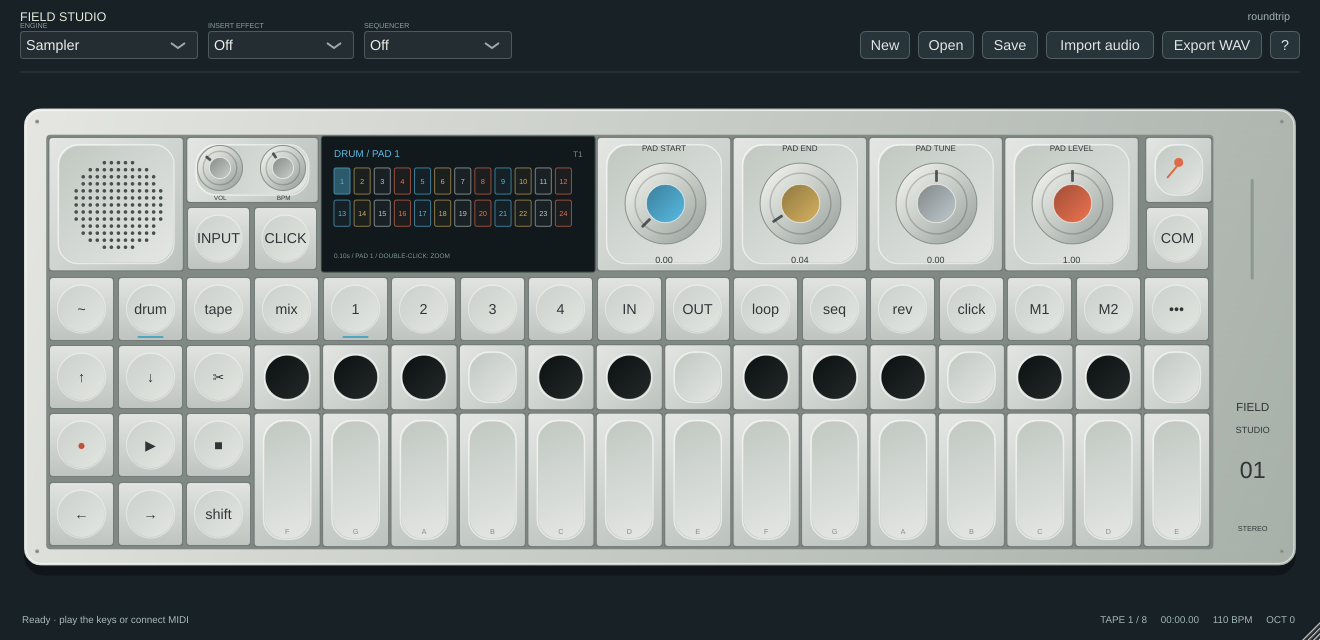
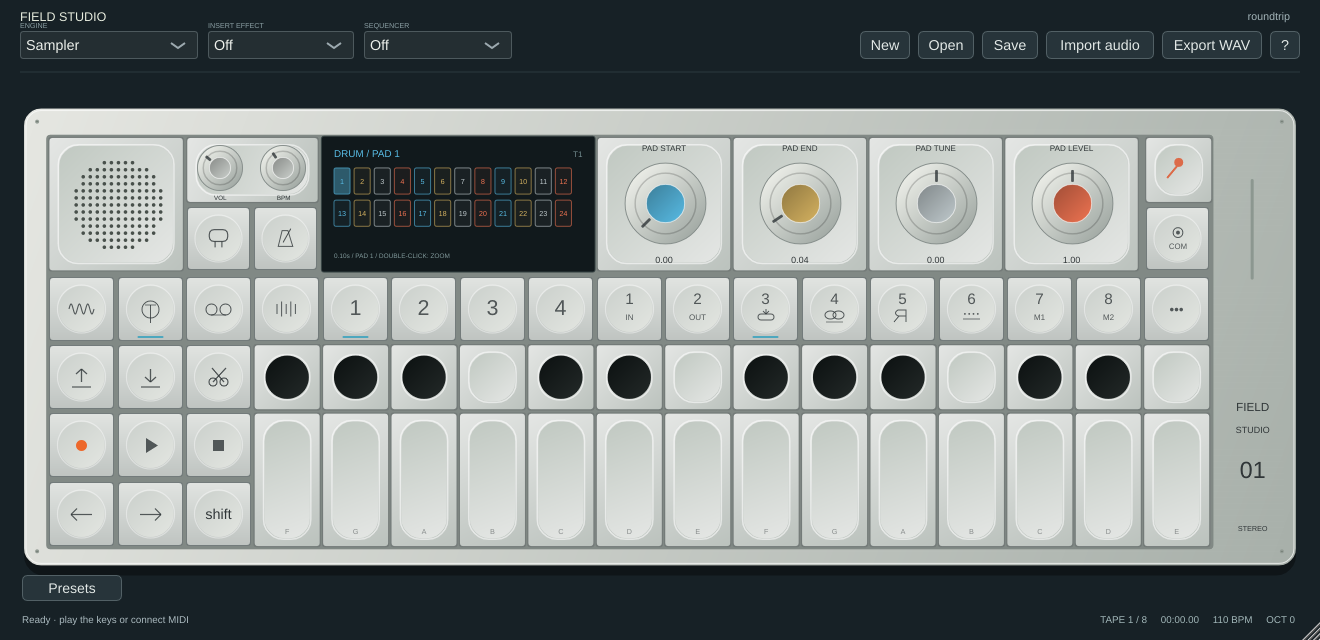
Restore permanent panel key legends and recreate Delay screen and controls

diff --git a/Source/PluginEditor.cpp b/Source/PluginEditor.cpp
@@ -2,6 +2,7 @@
 #include "DimensionScreen.h"
 #include "DSynthScreen.h"
 #include "CwoScreen.h"
+#include "DelayScreen.h"
 #include <cmath>
 #include <algorithm>
 
@@ -80,11 +81,12 @@ FieldEditor::FieldEditor(FieldProcessor& p):AudioProcessorEditor(p),processor(p)
     newButton.setTooltip("New empty tape bank");openButton.setTooltip("Open a Field Studio project");saveButton.setTooltip("Save all eight tapes, sample, effects and settings");importButton.setTooltip("Import WAV, AIFF, FLAC or Ogg into Sampler");exportButton.setTooltip("Export current tape mix as 24-bit stereo WAV");
     const juce::StringArray fn{"~","drum","tape","mix","1","2","3","4","IN","OUT","loop","seq","rev","click","M1","M2",juce::String::fromUTF8("•••")};
     const juce::StringArray tips{"Synthesizer","Drum machine","Four-track tape recorder",juce::String::fromUTF8("Mixer · Shift changes coloured knobs to pan"),juce::String::fromUTF8("T1 · engine or track 1"),juce::String::fromUTF8("T2 · envelope / mixer EQ / tape track 2"),juce::String::fromUTF8("T3 · insert / master FX / tape track 3"),juce::String::fromUTF8("T4 · modulation / master dynamics / tape track 4"),"Set loop selection start at playhead","Set loop selection end at playhead","Toggle tape loop","Open sequencer grid","Reverse tape speed","Toggle metronome",juce::String::fromUTF8("Recall mixer memo 1 · Shift: store · Sequencer: previous page"),juce::String::fromUTF8("Recall mixer memo 2 · Shift: store · Sequencer: next page"),"Tape style, host sync and editing menu"};
-    for(int i=0;i<17;++i){auto* b=functionButtons.add(new juce::TextButton(fn[i]));b->getProperties().set("hardware",true);b->setColour(juce::TextButton::textColourOffId,ink);b->setColour(juce::TextButton::textColourOnId,ink);b->setWantsKeyboardFocus(false);b->setTooltip(tips[i]);b->onClick=[this,i]{functionAction(i);grabKeyboardFocus();};addAndMakeVisible(b);}
+    for(int i=0;i<17;++i){auto* b=functionButtons.add(new juce::TextButton(fn[i]));b->getProperties().set("hardware",true);b->getProperties().set("panelKey",i);b->setColour(juce::TextButton::textColourOffId,ink);b->setColour(juce::TextButton::textColourOnId,ink);b->setWantsKeyboardFocus(false);b->setTooltip(tips[i]);b->onClick=[this,i]{functionAction(i);grabKeyboardFocus();};addAndMakeVisible(b);}
     const juce::StringArray tr{juce::String::fromUTF8("↑"),juce::String::fromUTF8("↓"),juce::String::fromUTF8("✂"),juce::String::fromUTF8("●"),juce::String::fromUTF8("▶"),juce::String::fromUTF8("■"),juce::String::fromUTF8("←"),juce::String::fromUTF8("→")};
     const juce::StringArray tt{juce::String::fromUTF8("Lift selected tape segment · Shift: undo"),juce::String::fromUTF8("Drop lifted audio at playhead · Shift: redo"),juce::String::fromUTF8("Split at playhead · Shift: clear track (undoable)"),juce::String::fromUTF8("Start / stop tape recording · Shift: capture input sample"),juce::String::fromUTF8("Play / pause · Space"),"Stop recording and playback",juce::String::fromUTF8("Seek back one second · Shift: rewind"),juce::String::fromUTF8("Seek forward one second · Shift: selection end")};
-    for(int i=0;i<8;++i){auto* b=transportButtons.add(new juce::TextButton(tr[i]));b->getProperties().set("hardware",true);b->setColour(juce::TextButton::textColourOffId,i==3?juce::Colour(0xffbf513b):ink);b->setWantsKeyboardFocus(false);b->setTooltip(tt[i]);b->onClick=[this,i]{transportAction(i);grabKeyboardFocus();};addAndMakeVisible(b);}
+    for(int i=0;i<8;++i){auto* b=transportButtons.add(new juce::TextButton(tr[i]));b->getProperties().set("hardware",true);b->getProperties().set("transportKey",i);b->setColour(juce::TextButton::textColourOffId,i==3?juce::Colour(0xffbf513b):ink);b->setWantsKeyboardFocus(false);b->setTooltip(tt[i]);b->onClick=[this,i]{transportAction(i);grabKeyboardFocus();};addAndMakeVisible(b);}
     for(auto* b:{&inputButton,&tempoButton,&comButton,&shiftButton}){b->getProperties().set("hardware",true);b->setColour(juce::TextButton::textColourOffId,ink);b->setWantsKeyboardFocus(false);addAndMakeVisible(b);}
+    inputButton.getProperties().set("panelUtility",0);tempoButton.getProperties().set("panelUtility",1);comButton.getProperties().set("panelUtility",2);
     inputButton.setTooltip(juce::String::fromUTF8("Monitor live audio input · required for Amp / Vocoder"));inputButton.onClick=[this]{processor.inputMonitor=!processor.inputMonitor;status=processor.inputMonitor?"Input monitoring on":"Input monitoring off";grabKeyboardFocus();};
     tempoButton.setTooltip("Metronome on / off");tempoButton.onClick=[this]{processor.metronome=!processor.metronome;grabKeyboardFocus();};
     comButton.setTooltip("Connections, host sync, tape styles and panic");comButton.onClick=[this]{showMenu();};shiftButton.setTooltip(juce::String::fromUTF8("Latch Shift · alternate tape edits and mixer pan"));shiftButton.onClick=[this]{shiftLatched=!shiftLatched;setShift(shiftLatched);grabKeyboardFocus();};
@@ -251,6 +253,7 @@ void FieldEditor::drawScreen(juce::Graphics& g){
     juce::Rectangle<float> r(304,38,271,134);g.setColour(juce::Colour(0xff3d4949));g.fillRoundedRectangle(r.expanded(1),3);g.setColour(screenBlack);g.fillRoundedRectangle(r,2);g.saveState();g.reduceClipRegion(r.toNearestInt());
     auto content=r.reduced(12,9);if(presetBrowser){drawPresetBrowser(g,content);g.restoreState();return;}
     const bool masterCwo=mode==3&&page==2;const bool patchCwo=(mode==0||mode==1)&&page==2;
+    if((masterCwo||patchCwo)&&(int)processor.value(masterCwo?"masterEffect":"effect")==1){std::array<float,4> values{};for(int i=0;i<4;++i)values[(size_t)i]=processor.value((masterCwo?"masterFx":"fx")+juce::String(i+1));field::drawDelayScreen(g,r,values,tick/30.f);g.restoreState();return;}
     if((masterCwo||patchCwo)&&(int)processor.value(masterCwo?"masterEffect":"effect")==7){std::array<float,4> values{};for(int i=0;i<4;++i)values[(size_t)i]=processor.value((masterCwo?"masterFx":"fx")+juce::String(i+1));field::drawCwoScreen(g,r,values,tick/30.f);g.restoreState();return;}
     if(mode==2){drawTape(g,content);g.restoreState();return;}if(mode==3){drawMixer(g,content);g.restoreState();return;}if(mode==4){drawSequence(g,content);g.restoreState();return;}
     const int engine=(int)processor.value("engine");
@@ -345,6 +348,7 @@ void FieldEditor::drawEffect(juce::Graphics& g,juce::Rectangle<float> area,bool 
     const int effect=juce::jlimit(0,10,(int)processor.value(master?"masterEffect":"effect"));
     std::array<float,4> v{};for(int i=0;i<4;++i)v[(size_t)i]=juce::jlimit(0.f,1.f,processor.value((master?"masterFx":"fx")+juce::String(i+1)));
     const float mix=processor.value(master?"masterMix":"effectMix");
+    if(effect==1){field::drawDelayScreen(g,area,v,tick/30.f);return;}
     if(effect==7){field::drawCwoScreen(g,area,v,tick/30.f);return;}
     const auto body=area.withTrimmedBottom(16).reduced(3,3);const float x=v[0],y=v[1],z=v[2],w=v[3];
     if(effect==0){g.setColour(colours[2].withAlpha(.25f));g.drawLine(body.getX()+8,body.getCentreY(),body.getRight()-8,body.getCentreY(),1);text(g,"BYPASS",body.withHeight(body.getHeight()-8),17,colours[2]);text(g,"CHOOSE AN EFFECT ABOVE",area.withY(area.getBottom()-12).withHeight(12),8,colours[2]);return;}
@@ -712,7 +716,7 @@ void FieldEditor::timerCallback(){
     for(int i=0;i<4;++i)functionButtons[i]->setToggleState(mode==i,juce::dontSendNotification);for(int i=4;i<8;++i)functionButtons[i]->setToggleState(mode==2?selectedTrack==i-4:page==i-4,juce::dontSendNotification);
     functionButtons[10]->setToggleState(processor.value("loop")>.5f,juce::dontSendNotification);functionButtons[11]->setToggleState(mode==4,juce::dontSendNotification);functionButtons[13]->setToggleState(processor.metronome,juce::dontSendNotification);inputButton.setToggleState(processor.inputMonitor,juce::dontSendNotification);tempoButton.setToggleState(processor.metronome,juce::dontSendNotification);transportButtons[3]->setToggleState(recording,juce::dontSendNotification);transportButtons[4]->setToggleState(playing,juce::dontSendNotification);
     if(mode<2){for(int slot=0;slot<8;++slot){functionButtons[8+slot]->setButtonText(juce::String(slot+1));functionButtons[8+slot]->setToggleState(processor.getCurrentProgram()%8==slot,juce::dontSendNotification);functionButtons[8+slot]->setTooltip("Sound "+juce::String(slot+1)+": "+processor.soundSlotName(slot)+" / Shift: browse / Hold 2 seconds: snapshot");}}
-    else {const juce::StringArray labels{"IN","OUT","loop","seq","rev","click","M1","M2"};for(int slot=0;slot<8;++slot)functionButtons[8+slot]->setButtonText(labels[slot]);}
+    else {const juce::StringArray labels{"IN","OUT","loop","seq","rev","click","M1","M2"};const juce::StringArray tips{"Set loop start","Set loop end","Toggle loop","Open sequencer","Reverse tape speed","Toggle metronome","Mixer memo 1 / Shift: store / Sequencer: previous page","Mixer memo 2 / Shift: store / Sequencer: next page"};for(int slot=0;slot<8;++slot){functionButtons[8+slot]->setButtonText(labels[slot]);functionButtons[8+slot]->setTooltip(juce::String(slot+1)+" / "+labels[slot]+": "+tips[slot]);}}
     transportButtons[3]->setButtonText(countInRemaining>0?"ARM":processor.sampling?"SAMPLE":juce::String::fromUTF8("●"));
     updateControlAvailability();
     repaint();

diff --git a/Source/PanelLegends.cpp b/Source/PanelLegends.cpp
@@ -1,0 +1,43 @@
+#include "PluginEditor.h"
+#include <cmath>
+
+void FieldLookAndFeel::drawButtonText(juce::Graphics& g,juce::TextButton& button,bool over,bool down){
+    if(!button.getProperties().contains("panelKey")&&!button.getProperties().contains("transportKey")&&!button.getProperties().contains("panelUtility")){juce::LookAndFeel_V4::drawButtonText(g,button,over,down);return;}
+    juce::Graphics::ScopedSaveState save(g);g.addTransform(juce::AffineTransform::scale(button.getWidth()/67.f,button.getHeight()/66.f));
+    const int key=(int)button.getProperties()["panelKey"];const auto colour=button.findColour(juce::TextButton::textColourOffId).withMultipliedAlpha(button.isEnabled()?.8f:.35f);g.setColour(colour);
+    auto text=[&](const juce::String& s,juce::Rectangle<float> r,float size){g.setColour(colour);g.setFont(juce::Font(juce::FontOptions(size)));g.drawText(s,r,juce::Justification::centred,false);};
+    if(button.getProperties().contains("transportKey")){
+        const int action=(int)button.getProperties()["transportKey"];
+        // Recording/count-in states retain their dynamic text.
+        if(action==3&&(button.getButtonText()=="ARM"||button.getButtonText()=="SAMPLE")){text(button.getButtonText(),{12,22,43,22},10);return;}
+        if(action==0||action==1){float top=action==0?25.f:38.f,bottom=action==0?38.f:25.f;g.drawLine(33.5f,top,33.5f,bottom,1.3f);g.drawLine(28,action==0?30.f:33.f,33.5f,top,1.3f);g.drawLine(39,action==0?30.f:33.f,33.5f,top,1.3f);g.drawLine(24,43,43,43,1.2f);}
+        else if(action==2){g.drawEllipse(24,34,8,8,1.2f);g.drawEllipse(35,34,8,8,1.2f);g.drawLine(28,38,41,24,1.3f);g.drawLine(39,38,27,24,1.3f);}
+        else if(action==3){g.setColour(juce::Colour(0xffed682b));g.fillEllipse(28,28,11,11);}
+        else if(action==4){juce::Path play;play.addTriangle(29,26,29,41,41,33.5f);g.fillPath(play);}
+        else if(action==5)g.fillRect(28.f,28.f,11.f,11.f);
+        else{const float direction=action==6?-1.f:1.f;g.drawLine(23,33.5f,44,33.5f,1.2f);g.drawLine(33.5f+10.5f*direction,33.5f,33.5f+4.5f*direction,27.5f,1.2f);g.drawLine(33.5f+10.5f*direction,33.5f,33.5f+4.5f*direction,39.5f,1.2f);}
+        return;
+    }
+    if(button.getProperties().contains("panelUtility")){
+        const int utility=(int)button.getProperties()["panelUtility"];
+        if(utility==0){g.drawRoundedRectangle({24,24,19,12},5,1.2f);g.drawLine(30,36,30,42,1.2f);g.drawLine(37,36,37,42,1.2f);}
+        else if(utility==1){juce::Path metronome;metronome.startNewSubPath(26,41);metronome.lineTo(30,25);metronome.lineTo(36,25);metronome.lineTo(41,41);metronome.closeSubPath();g.strokePath(metronome,juce::PathStrokeType(1));g.drawLine(31,37,39,23,1.1f);}
+        else{g.drawEllipse(29,22,10,10,1);g.fillEllipse(32,25,4,4);text("COM",{20,34,28,13},9);}
+        return;
+    }
+    if(key>=8&&key<16){
+        const int slot=key-8;text(juce::String(slot+1),{16,13,35,20},17);
+        if(slot==0||slot==1||slot>=6){const juce::StringArray legends{"IN","OUT","","","","","M1","M2"};text(legends[slot],{17,33,33,16},9);}
+        else if(slot==2){g.drawRoundedRectangle({26,38,16,6},3,1);g.drawLine(34,33,34,38,1);g.drawLine(31,35,34,38,1);g.drawLine(37,35,34,38,1);}
+        else if(slot==3){g.drawEllipse(24,35,11,8,1);g.drawEllipse(32,35,11,8,1);g.drawLine(25,46,42,46,.7f);}
+        else if(slot==4){juce::Path reverse;reverse.startNewSubPath(37,46);reverse.lineTo(37,34);reverse.lineTo(29,34);reverse.quadraticTo(24,37,29,40);reverse.lineTo(37,40);reverse.startNewSubPath(30,40);reverse.lineTo(25,46);g.strokePath(reverse,juce::PathStrokeType(1));}
+        else{for(int dot=0;dot<4;++dot)g.fillEllipse(26+dot*4.3f,37,1.8f,1.8f);g.drawLine(25,43,42,43,.8f);}
+        return;
+    }
+    if(key>=4&&key<8){text(juce::String(key-3),{14,17,39,30},24);return;}
+    if(key==0){juce::Path wave;for(int i=0;i<=64;++i){float x=21+i*25.f/64,y=33-std::sin(i/64.f*juce::MathConstants<float>::twoPi*3)*5;if(i==0)wave.startNewSubPath(x,y);else wave.lineTo(x,y);}g.strokePath(wave,juce::PathStrokeType(1.1f));}
+    else if(key==1){g.drawEllipse(25,25,17,17,1);g.drawLine(33.5f,29,33.5f,47,1);g.drawLine(28,29,39,29,.8f);}
+    else if(key==2){g.drawEllipse(21,28,11,11,1);g.drawEllipse(35,28,11,11,1);g.drawLine(26,39,41,39,.8f);}
+    else if(key==3){for(int ch=0;ch<5;++ch){float x=24+ch*4.6f,height=ch%2?15.f:10.f;g.drawLine(x,33-height*.5f,x,33+height*.5f,1);}}
+    else{text(juce::String::fromUTF8("•••"),{15,20,37,26},15);}
+}

diff --git a/tests/plugin_tests.cpp b/tests/plugin_tests.cpp
@@ -223,6 +223,7 @@ int main(int argc,char** argv){
     p.setValue("effect",7);p.setValue("effectMix",.5f);p.setValue("masterEffect",0);p.setValue("fx2",1);p.setValue("fx3",1);const auto insertTail=p.getTailLengthSeconds();require(insertTail>60,"Host CWO tail estimate would truncate high-feedback echoes");p.setValue("masterEffect",7);p.setValue("masterMix",.5f);p.setValue("masterFx2",1);p.setValue("masterFx3",1);require(p.getTailLengthSeconds()>insertTail*1.8,"Host tail omitted serial master CWO");p.setValue("masterFx2",.5f);p.setValue("masterFx3",.45f);
     p.drumMode=false;p.setValue("effect",7);p.setValue("masterEffect",7);p.setValue("fx1",.7f);p.setValue("fx2",.12f);p.setValue("fx3",.48f);p.setValue("fx4",.3f);ui->showPageForTesting(0,2);captureNamed("cwo-reference");ui->setShiftForTesting(true);require(ui->macroMidiTargetForTesting(0)=="fx1"&&ui->macroMidiTargetForTesting(3)=="effectMix","CWO fine frequency/mix gestures mapped wrong controls");for(int child=0;child<ui->getNumChildComponents();++child)if(auto* slider=dynamic_cast<juce::Slider*>(ui->getChildComponent(child)))if(slider->getProperties()["midiTarget"].toString()=="fx1")require(slider->getMouseDragSensitivity()==2400,"CWO Shift did not provide fine frequency dragging");ui->setShiftForTesting(false);
     ui->showPageForTesting(3,2);captureNamed("cwo-master");for(int i=1;i<=4;++i)p.setValue("fx"+juce::String(i),0);ui->showPageForTesting(0,2);captureNamed("cwo-minimum");for(int i=1;i<=4;++i)p.setValue("fx"+juce::String(i),1);ui->refreshForTesting();captureNamed("cwo-maximum");
+    p.setValue("effect",1);p.setValue("fx1",.4f);p.setValue("fx2",.48f);p.setValue("fx3",.48f);p.setValue("fx4",.3f);ui->showPageForTesting(0,2);captureNamed("delay-reference");for(int key=1;key<=8;++key){auto* button=dynamic_cast<juce::TextButton*>(ui->findChildWithID("sound-slot-"+juce::String(key)));require(button&&(int)button->getProperties()["panelKey"]==key+7,"Numbered sound key lost its permanent panel legend");}p.setValue("masterEffect",1);ui->showPageForTesting(3,2);captureNamed("delay-master");ui->showPageForTesting(2,0);captureNamed("panel-tape-legends");ui->showPageForTesting(0,0);captureNamed("panel-synth-legends");
     p.setValue("lfoDepth",.65f);p.setValue("lfoTarget",0);
     for(int type=0;type<FieldProcessor::lfoNames.size();++type){p.setValue("lfo",(float)type);for(int shape=0;shape<6;++shape){p.setValue("lfoWaveform",(float)shape);ui->showPageForTesting(0,3);require(editor->createComponentSnapshot(editor->getLocalBounds()).isValid(),"LFO source/shape did not render");if(shape==0)captureNamed("lfo-"+juce::String(type));if(type==3)captureNamed("lfo-wave-"+juce::String(shape));}}
     p.drumMode=false;p.setValue("engine",1);ui->setShiftForTesting(false);ui->showPageForTesting(0,0);require(ui->macroMidiTargetForTesting(0)=="macro1","Synth knob learns wrong parameter");ui->showPageForTesting(3,0);require(ui->macroMidiTargetForTesting(0)=="track1Level","Mixer knob learns wrong parameter");ui->setShiftForTesting(true);require(ui->macroMidiTargetForTesting(0)=="track1Pan","Shifted mixer knob learns wrong parameter");p.drumMode=true;p.setValue("engine",14);ui->setShiftForTesting(false);ui->showPageForTesting(1,0);require(ui->macroMidiTargetForTesting(2)=="dboxEnvelope1","DBox knob learns wrong parameter");ui->setShiftForTesting(true);require(ui->macroMidiTargetForTesting(2)=="dboxEnvelope2","Shifted DBox knob learns wrong parameter");p.setValue("engine",11);ui->setShiftForTesting(false);ui->showPageForTesting(1,0);require(ui->macroMidiTargetForTesting(0)=="padStart","Sampler pad knob learns wrong parameter");p.drumMode=false;p.setValue("engine",1);ui->showPageForTesting(0,0);p.beginMidiLearn("macro1",field::EncoderMode::absolute,true);captureNamed("midi-learn");p.cancelMidiLearn();

diff --git a/Source/Engine.cpp b/Source/Engine.cpp
@@ -1,4 +1,5 @@
 #include "Engine.h"
+#include "DelayControls.h"
 #include <algorithm>
 #include <cmath>
 #include <limits>
@@ -94,7 +95,7 @@ void Engine::prepare(double rate, int /* maxBlock */) {
     delayR.assign(delayL.size(),0);
     delayWrite=0; fxLowL=fxLowR=fxBandL=fxBandR=wetLowL=wetLowR=0;
     phaserL.fill(0); phaserR.fill(0);
-    cwoShifter.prepare(sr);cwoDelay=-1;cwoDelaySmoothing=1-std::exp(-1/(.005*sr));
+    cwoShifter.prepare(sr);cwoDelay=plainDelay=-1;cwoDelaySmoothing=1-std::exp(-1/(.005*sr));
     for (auto& v : voices) {v.active=false;releaseVoiceSample(v);}keyCount=0;
     isRecording=false; isPlaying=false;countInRemaining=0;countInElapsed=0;reverseHeld=false;brakeHeld=false;rollHeld=false;
     seqPhase=0; seqStep=-1;seqPositionPending=-1; seqLastNote=-1;
@@ -590,7 +591,11 @@ std::pair<float,float> Engine::effect(float l,float r) {
     const float tapL=read(delayL,(.04+x*.71)*sr), tapR=read(delayR,(.057+x*.713)*sr);
     fxPhase=wrap(fxPhase+(0.05+y*1.8)/sr);
     switch(params.effect) {
-        case 1: wetL=tapL; wetR=tapR; feedbackL=tapR*(.15f+y*.65f); feedbackR=tapL*(.15f+y*.65f); break;
+        case 1: {
+            const double target=delaySeconds(x,y)*sr;if(plainDelay<0)plainDelay=target;else plainDelay+=(target-plainDelay)*cwoDelaySmoothing;
+            const float echoL=read(delayL,plainDelay),echoR=read(delayR,plainDelay);
+            feedbackL=echoR*z*.94f;feedbackR=echoL*z*.94f;wetL=echoL*w;wetR=echoR*w;break;
+        }
         case 2: { // Short dispersive feedback taps: spring-inspired, not a model of TE's engine.
             wetL=read(delayL,sr*.0311)+read(delayR,sr*.0477)*.7f+read(delayL,sr*.0713)*.5f;
             wetR=read(delayR,sr*.0371)+read(delayL,sr*.0537)*.7f+read(delayR,sr*.0793)*.5f;
@@ -631,9 +636,9 @@ std::pair<float,float> Engine::effect(float l,float r) {
     }
     delayL[delayWrite]=std::tanh(l+feedbackL);delayR[delayWrite]=std::tanh(r+feedbackR);
     delayWrite=(delayWrite+1)%delayL.size();
-    // CWO has dedicated feedback and sideband controls. Other original
-    // software effects retain their wet-tone and stereo-width processing.
-    if(params.effect!=7){
+    // Delay and CWO have dedicated four-control paths. Other software
+    // effects retain their wet-tone and stereo-width processing.
+    if(params.effect!=7&&params.effect!=1){
         const float tone=1-std::exp(-static_cast<float>(tau)*std::min(static_cast<float>(sr*.42),200+z*z*18000)/static_cast<float>(sr));
         wetLowL+=tone*(wetL-wetLowL);wetLowR+=tone*(wetR-wetLowR);
         const float mid=(wetLowL+wetLowR)*.5f,side=(wetLowL-wetLowR)*w;

diff --git a/Source/PluginProcessor.cpp b/Source/PluginProcessor.cpp
@@ -1,5 +1,6 @@
 #include "PluginProcessor.h"
 #include "PluginEditor.h"
+#include "DelayControls.h"
 #include "PresetFormat.h"
 #include "PresetMapping.h"
 #include "PresetParameters.h"
@@ -64,13 +65,14 @@ FieldProcessor::FieldProcessor(juce::File presetDirectory) : AudioProcessor(Buse
 FieldProcessor::~FieldProcessor(){stopTimer();fileJobs.shutdown();for(auto* parameter:rawTargets)parameter->removeListener(this);}
 double FieldProcessor::getTailLengthSeconds() const {
     const double rate=getSampleRate()>0?getSampleRate():44100.;
-    auto cwoTail=[&](int effect,int mix,int time,int feedback){
-        if((int)cached(effect)!=7||cached(mix)<=0)return 0.;
+    auto feedbackTail=[&](int effect,int mix,int range,int time,int feedback){
+        const int kind=(int)cached(effect);if((kind!=7&&kind!=1)||cached(mix)<=0)return 0.;
         const double amount=juce::jlimit(0.,.94,cached(feedback)*.94),delay=cached(time);
         const double repeats=amount>0?std::ceil(std::log(1.e-5)/std::log(amount))+1:1;
-        return std::min(180.,repeats*(33./rate+.8*delay*delay));
+        const double interval=kind==7?33./rate+.8*delay*delay:field::delaySeconds(cached(range),cached(time));
+        return std::min(420.,repeats*interval);
     };
-    return std::max(4.,(double)cached(P_release))+cwoTail(P_effect,P_effectMix,P_fx2,P_fx3)+cwoTail(P_masterEffect,P_masterMix,P_masterFx2,P_masterFx3);
+    return std::max(4.,(double)cached(P_release))+feedbackTail(P_effect,P_effectMix,P_fx1,P_fx2,P_fx3)+feedbackTail(P_masterEffect,P_masterMix,P_masterFx1,P_masterFx2,P_masterFx3);
 }
 void FieldProcessor::parameterValueChanged(int index,float normalized){for(int i=0;i<P_count;++i)if(rawTargets[(size_t)i]->getParameterIndex()==index){const auto version=realtimeValues.version((size_t)i);const float actual=cached(i),received=rawTargets[(size_t)i]->convertFrom0to1(normalized);const float tolerance=8*std::numeric_limits<float>::epsilon()*std::max(1.f,std::abs(actual));if(std::abs(actual-received)>tolerance){realtimeValues.fromAudio((size_t)i,actual);return;}if(activeMirror.owner==this&&activeMirror.key==i&&std::abs(activeMirror.value-received)<=tolerance)return;realtimeValues.fromControlIfUnchanged((size_t)i,version,actual);return;}}
 juce::ValueTree FieldProcessor::copyParameterState(){auto copy=parameters.copyState();for(auto item:copy)if(item.hasProperty("id")){const auto id=item["id"].toString();if(parameters.getParameter(id))item.setProperty("value",value(id),nullptr);}return copy;}

diff --git a/tests/engine_tests.cpp b/tests/engine_tests.cpp
@@ -51,6 +51,11 @@ int main(){
         auto extreme=processCwo(1,1,1,false);check(energy(extreme)>0,"CWO maximum controls produce audio");
     }
     {
+        auto delayImpulse=[&](float range,float speed,float feedback,float level){auto fx=std::make_unique<Engine>();fx->prepare(8000,64);Parameters p;p.monitorInput=true;p.volume=1;p.effect=1;p.effectMix=1;p.effectMacro[0]=range;p.effectMacro[1]=speed;p.effectMacro[2]=feedback;p.effectMacro[3]=level;fx->setParameters(p);fx->setOutputGainImmediately(1);std::vector<float> input(24000,0),left(24000),right(24000);input[0]=.1f;const auto allocations=watchedAllocations.load(),frees=watchedDeallocations.load();watchAllocations=true;fx->process(left.data(),right.data(),input.data(),input.data(),24000);watchAllocations=false;check(watchedAllocations.load()==allocations&&watchedDeallocations.load()==frees,"Delay processing neither allocates nor frees");for(float sample:left)check(std::isfinite(sample)&&std::abs(sample)<=1,"Delay maximum feedback remains bounded");return left;};
+        auto normal=delayImpulse(.4f,.5f,0,1),fast=delayImpulse(.4f,1,0,1),wide=delayImpulse(.6f,.5f,0,1),quiet=delayImpulse(.4f,.5f,0,0),echo=delayImpulse(.4f,.5f,.8f,1);
+        auto peak=[](const auto& signal){return (int)std::distance(signal.begin(),std::max_element(signal.begin(),signal.end()));};check(peak(normal)==2000&&peak(fast)==1000&&peak(wide)==4000,"Delay range and speed independently set echo timing");check(energy(quiet)==0,"Delay level zero silences wet output");double dryTail=0,echoTail=0;for(size_t i=3000;i<normal.size();++i){dryTail+=normal[i]*normal[i];echoTail+=echo[i]*echo[i];}check(dryTail==0&&echoTail>.001,"Delay feedback controls repeats independently of speed");auto maximum=delayImpulse(1,0,1,1);check(energy(maximum)>0,"Delay extreme controls produce audio");
+    }
+    {
         auto eOwner=std::make_unique<Engine>();auto& e=*eOwner;e.prepare(48000,512);Parameters p;p.engine=1;p.macro[1]=0;p.attack=.001f;p.decay=.01f;p.sustain=1;p.release=.025f;p.volume=1;e.setParameters(p);e.noteOn(69,1);render(e,l,r,48000);
         check(energy(l)>.001f,"FM sine carrier produces audio");
         int crossings=0;for(size_t i=4801;i<l.size();++i)if(l[i-1]<=0&&l[i]>0)++crossings;

diff --git a/Source/DelayScreen.cpp b/Source/DelayScreen.cpp
@@ -1,0 +1,21 @@
+#include "DelayScreen.h"
+#include "DelayControls.h"
+namespace field {
+void drawDelayScreen(juce::Graphics& g,juce::Rectangle<float> bounds,const std::array<float,4>& value,float phase){
+    juce::Graphics::ScopedSaveState save(g);g.reduceClipRegion(bounds.toNearestInt());g.addTransform(juce::AffineTransform::scale(bounds.getWidth()/604.f,bounds.getHeight()/292.f).translated(bounds.getX(),bounds.getY()));g.fillAll(juce::Colours::black);
+    const juce::Colour blue{0xff416599},ochre{0xffa78032},grey{0xff7c8c93},white{0xffb2b7b6},red{0xffff0600};
+    const float range=juce::jlimit(0.f,1.f,value[0]),speed=juce::jlimit(0.f,1.f,value[1]),feedback=juce::jlimit(0.f,1.f,value[2]),level=juce::jlimit(0.f,1.f,value[3]);
+    auto text=[&](const juce::String& s,juce::Rectangle<float> area,float size,juce::Colour c){g.setColour(c);g.setFont(juce::Font(juce::FontOptions(size)));g.drawText(s,area,juce::Justification::centredLeft,true);};
+    text("RANGE",{38,23,130,23},18,blue);const float ms=delayRangeMs(range);text(juce::String(ms,ms==62.5f?1:0)+" MS",{38,42,130,23},18,blue);
+    text("SPEED",{38,155,130,23},18,ochre);text(juce::String((int)std::round(speed*99)),{28,175,132,67},61,white);
+    text("FEEDBACK",{471,23,126,23},18,grey);text(juce::String((int)std::round(feedback*99)),{489,45,110,63},60,white);
+    text("LEVEL",{508,155,90,23},18,red);for(int bar=0;bar<13;++bar){g.setColour(bar<(int)std::round(level*13)?red:white.withAlpha(.8f));g.drawLine(533,258-bar*7.f,550,258-bar*7.f,2);}
+    g.setColour(juce::Colour(0xff0e1d28));g.fillRoundedRectangle({185,22,250,248},6);
+    {juce::Graphics::ScopedSaveState clip(g);g.reduceClipRegion(juce::Rectangle<int>(185,22,250,248));
+        g.setColour(juce::Colours::black);g.drawEllipse(189,27,241,241,2);
+        const float movement=std::sin(phase*(.15f+speed*.6f))*5.f;g.setColour(blue);g.drawEllipse(227+movement,61,194,196,2.3f);
+        g.setColour(juce::Colours::black);g.drawEllipse(268,97,158,158,2);g.drawEllipse(306,135,83,83,2);g.drawEllipse(331,160,33,33,2);
+        g.setColour(red);g.fillEllipse(341,170,13,13);
+    }
+}
+}

diff --git a/Source/Engine.h b/Source/Engine.h
@@ -296,7 +296,7 @@ private:
     float fxLowL = 0, fxLowR = 0, fxBandL = 0, fxBandR = 0, wetLowL=0, wetLowR=0;
     std::array<float, 8> phaserL{}, phaserR{};
     CwoShifter cwoShifter;
-    double cwoDelay=-1,cwoDelaySmoothing=0;
+    double cwoDelay=-1,cwoDelaySmoothing=0,plainDelay=-1;
     std::array<float,20> modulationRoutes{};
     std::array<float,4> midiControllers{};
     float previousOutputEnvelope = 0;

diff --git a/Source/PluginEditor.h b/Source/PluginEditor.h
@@ -5,6 +5,7 @@
 class FieldLookAndFeel final : public juce::LookAndFeel_V4 {
 public:
     FieldLookAndFeel();
+    void drawButtonText(juce::Graphics&,juce::TextButton&,bool,bool) override;
     void drawRotarySlider(juce::Graphics&, int,int,int,int,float,float,float,juce::Slider&) override;
     void drawButtonBackground(juce::Graphics&,juce::Button&,const juce::Colour&,bool,bool) override;
 };

diff --git a/Source/DelayControls.h b/Source/DelayControls.h
@@ -1,0 +1,7 @@
+#pragma once
+#include <algorithm>
+#include <cmath>
+namespace field {
+inline float delayRangeMs(float value){constexpr float ranges[]{62.5f,125.f,250.f,500.f,750.f,1000.f};return ranges[std::clamp((int)(std::clamp(value,0.f,1.f)*5.999f),0,5)];}
+inline double delaySeconds(float range,float speed){return delayRangeMs(range)*.001*std::exp2((.5-std::clamp(speed,0.f,1.f))*2);}
+}

diff --git a/Source/DelayScreen.h b/Source/DelayScreen.h
@@ -1,0 +1,4 @@
+#pragma once
+#include <juce_gui_basics/juce_gui_basics.h>
+#include <array>
+namespace field {void drawDelayScreen(juce::Graphics&,juce::Rectangle<float>,const std::array<float,4>&,float phase);}

diff --git a/docs/DELAY_AND_PANEL.md b/docs/DELAY_AND_PANEL.md
@@ -1,0 +1,26 @@
+# Panel legends and Delay
+
+The supplied hardware photograph is the reference for the printed function-row legends. All eight sound keys now retain a number **and** a secondary marking: IN, OUT, loop arrow, sequencer/infinity symbol, reversed R, click/dots, M1 and M2. These are vector drawings, so glyphs do not depend on Unicode font coverage. Synth, drum, tape and mixer mode keys also use their corresponding drawn symbols; transport and input/click/COM controls have dedicated vector legends.
+
+The artwork is permanent while actions remain contextual: in Synth/Drum, keys 1–8 recall/browse/save sound slots; in Tape/Mixer/Sequencer, the secondary functions continue to apply. Existing click, Shift, hold-to-save and MIDI behaviour is retained. Tooltips describe the current mode. Count-in and sample-capture transport buttons retain their dynamic ARM/SAMPLE text.
+
+Delay now follows the supplied LCD image: range at top left, speed below it, feedback at top right, a red level meter, and overlapping circles in a dark blue square. Insert and master Delay use the full screen. The animated circles are a control illustration, not measured audio output.
+
+![Native Delay LCD and permanent panel legends](screenshots/delay-reference.png)
+
+## Software controls
+
+| Encoder | Behaviour |
+|---|---|
+| Blue / Range | Chooses a base range from 62.5, 125, 250, 500, 750 or 1000 ms. |
+| Ochre / Speed | Changes delay time relative to that range: `range × 2^((0.5 − speed) × 2)`. Faster settings shorten repeats; midpoint gives the base range. |
+| Grey / Feedback | Sets cross-channel echo-loop feedback, up to 0.94. |
+| Orange / Level | Scales wet echo output from silence to full level, independently of feedback. Shift + orange controls the overall wet/dry mix. |
+
+Delay-time changes use approximately 5 ms smoothing. The existing two-second-capable buffer is reused without callback allocations. The host tail estimate includes these feedback echoes for both insert and master effects. Existing stored knob positions and parameter IDs remain compatible, but previous Delay presets can sound different: the old model used these controls for coupled delay/feedback and generic tone/stereo width.
+
+These ranges and mappings are original software choices, not verified hardware parameter laws. The artwork follows the supplied references without establishing pixel or sound parity.
+
+## Checks
+
+Core impulse tests verify 250 ms at midpoint speed, 125 ms at maximum speed, 500 ms in a wider range, independent feedback repeats, level-zero wet silence and finite/bounded maximum controls. The callback allocation/free guard covers those renders. Existing full plugin/core tests still run, including DBox feeding Delay. Native screenshots cover synth/tape panel legends and insert/master Delay, with the reference example displaying RANGE 250 MS, SPEED 48 and FEEDBACK 48.
